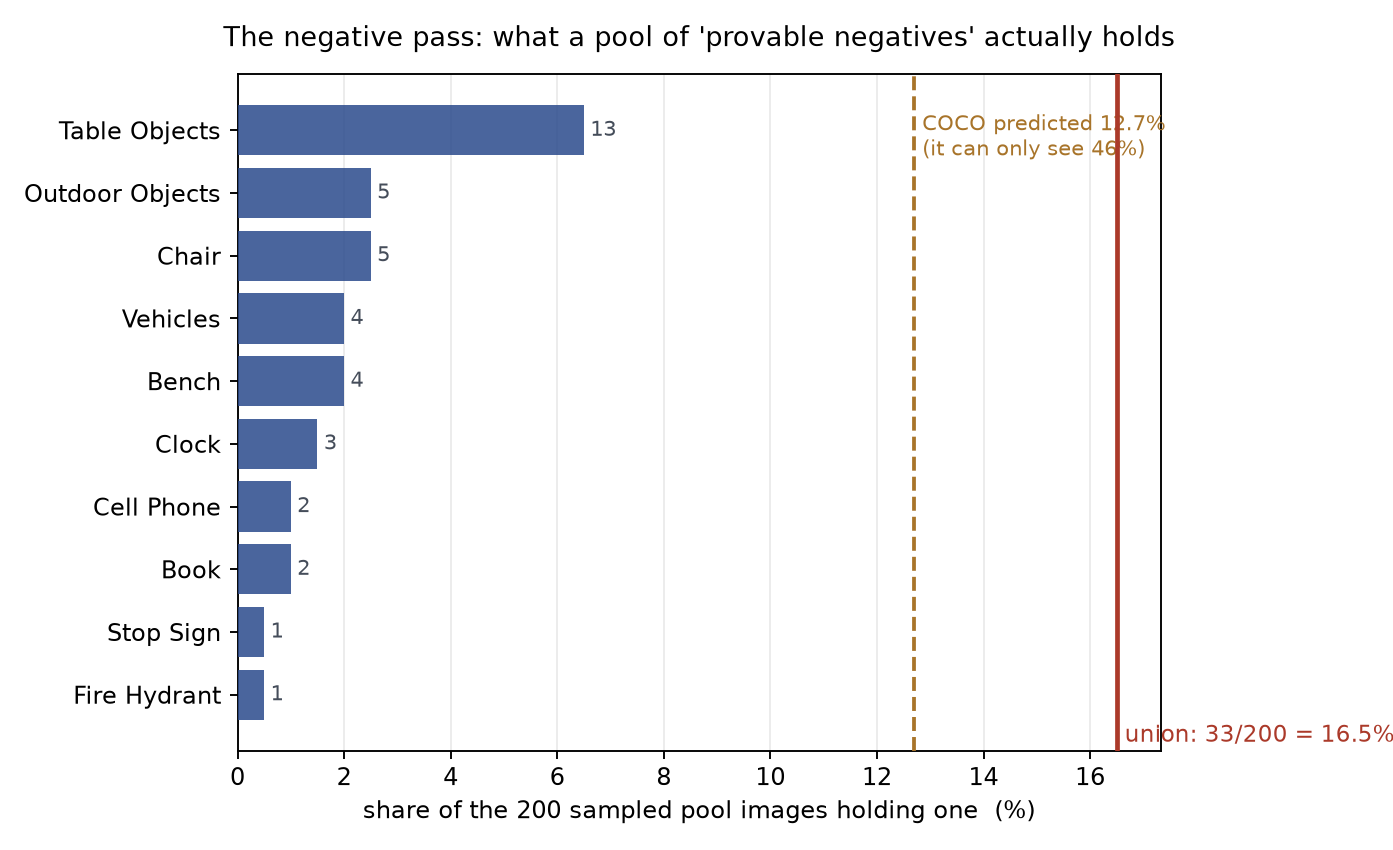
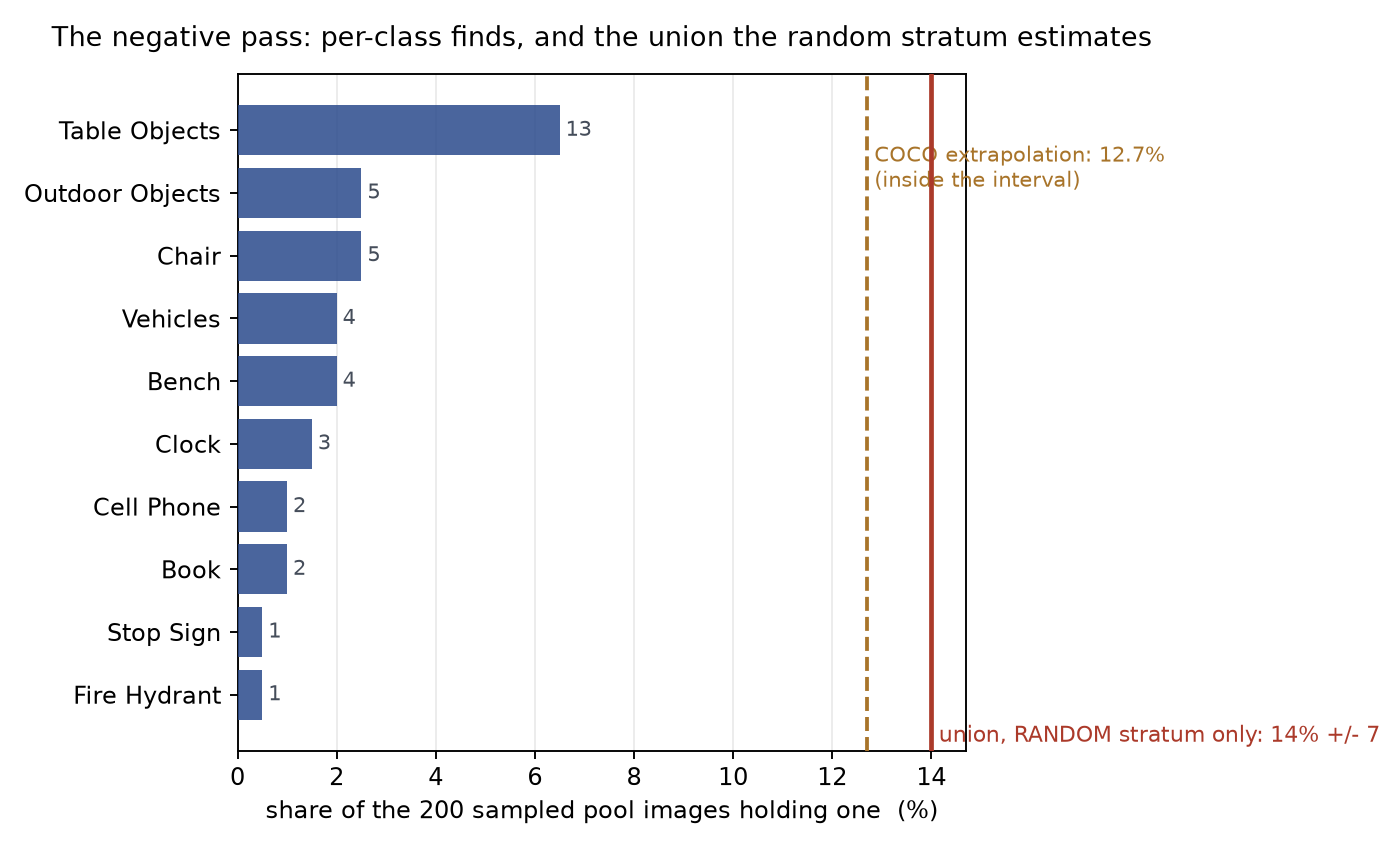
Correct the union rate: 14% +/- 7 from the random stratum, and it CONFIRMS #3635
The write-up compared 16.5% over all 200 sampled images against COCO's 12.7%
and claimed the reviewer had found 30% more contamination than COCO's half
could see. That comparison is invalid and the claim is withdrawn.

HALF THE SAMPLE IS THE BOUNDARY STRATUM, chosen by text rank to be suspicious,
while the 12.7% was computed uniformly over the whole frame. Mixing a biased
stratum into an estimate is the same error the class slates carry a warning
about in their own scoring output -- "the boundary row is chosen to surface
errors and says nothing about the pool" -- and the write-up made it anyway.

    random     14 / 100 = 14%     the estimate
    boundary   19 / 100 = 19%     biased by design
    all 200    33 / 200 = 16.5%   not an estimate of anything

Union contamination of the shared pool is 14% +/- 7 (95% CI, n=100). COCO's
extrapolation of 12.7% sits comfortably inside that interval.

SO THE RESULT IS A CONFIRMATION, NOT A CONTRADICTION, and that is worth more
than the wrong version was. `pool_contamination.py` (#3635, merged into dev
while this branch was open) measures per-class contamination on the COCO overlap
with COCO held back as the answer key, then extrapolates to the off-COCO half --
an extrapolation its own docstring flags as "assumes the two halves have the
same prevalence". Nobody had tested that assumption against a human on the half
it extrapolates TO. It survives.

The two halves of this sample came out at 22% (COCO-scored, n=92) and 12%
[…]

diff --git a/scripts/experiments/pile/negative_pass_strata.py b/scripts/experiments/pile/negative_pass_strata.py
@@ -1,0 +1,51 @@
+#!/usr/bin/env python3
+"""The union rate has to come from the RANDOM stratum alone.
+
+Half the 200 sampled images are the boundary stratum, chosen by text rank to be
+suspicious. Comparing a rate over all 200 against COCO's 12.7% -- which was
+computed uniformly over the whole frame -- is apples to oranges, and the report
+did exactly that.
+"""
+
+import csv
+import json
+from pathlib import Path
+
+BANK = Path("/expscratch/sgreenberg/classes-3588")
+man = {int(r["image_id"]): r["stratum"] for r in csv.DictReader((BANK / "slates/Table_Objects/manifest.csv").open())}
+POL = json.loads((BANK / "polarity.json").read_text())
+OLD = set(POL["old"]["detectors"])
+
+found, per = {}, {}
+for p in sorted((BANK / "negbank").glob("*.json")):
+    d = json.loads(p.read_text())
+    name, labels = d.get("name"), d["labelset"].get("labels", [])
+    if not name or len(labels) < 200 or name in per:
+        continue
+    per[name] = 1
+    old = name in OLD
+    for lb in labels:
+        iid = int(Path(lb["origin_name"]).stem)
+        present = (lb.get("label") != "good") if old else (lb.get("label") == "good")
+        if present:
+            found.setdefault(iid, []).append(name)
+
+for st in ("random", "boundary"):
+    ids = [i for i, s in man.items() if s == st]
+    k = sum(1 for i in ids if i in found)
+    print(
+        f"{st:<10} {k:3d} / {len(ids):3d} = {100 * k / len(ids):5.1f}%"
+        + ("   <- THE ESTIMATE" if st == "random" else "   (ranked, biased by design)")
+    )
+k = sum(1 for i in man if i in found)
+print(f"{'all 200':<10} {k:3d} / {len(man):3d} = {100 * k / len(man):5.1f}%   (not an estimate of anything)")
+
+n = sum(1 for i, s in man.items() if s == "random")
+k = sum(1 for i, s in man.items() if s == "random" and i in found)
+p_hat = k / n
+se = (p_hat * (1 - p_hat) / n) ** 0.5
+print(f"\nunion contamination of the shared pool: {100 * p_hat:.0f}% +/- {100 * 1.96 * se:.0f} (95% CI, n={n})")
+print(
+    "COCO's prediction over the same frame:   12.7%  -> "
+    + ("inside the interval" if abs(p_hat - 0.127) < 1.96 * se else "OUTSIDE the interval")
+)

diff --git a/docs/experiments/2026-09-03-vg-scale-classes/REPORT.md b/docs/experiments/2026-09-03-vg-scale-classes/REPORT.md
@@ -13,9 +13,9 @@ they would be reviewed under, and the tooling behind them.
 **Update, 2026-09-06.** The review ran. One reviewer produced **5,904
 judgements** over four days — 3,900 across the thirteen candidate slates and
 2,000 in a negative pass covering all twenty-five classes. All thirteen
-candidates clear the bar; the results and their cost are in
-[The review ran](#the-review-ran-5904-judgements) below, and six issues came out
-of it.
+candidates clear the bar. The negative pass puts union contamination of the
+shared pool at **14% ± 7**, which *confirms* the extrapolation #3635 rests on
+rather than overturning it. Six issues came out of the review.
 
 ## Three results, in order of how much they change the plan
 
@@ -256,27 +256,47 @@ from `Truck` costs the 63 `trailer`, 35 `cart`, 24 `tractor`, 2 `forklift` and 2
 `crane` boxes COCO does call trucks — about 100 boxes, the same order as the
 vase narrowing.
 
-### The negative pass: the pool is 17% contaminated
+### The negative pass: the pool is 14% ± 7 contaminated, and the extrapolation holds
 
 ![the negative pass](figures/negative-pass.png)
 
 The thirteen slates each measured one class against its own negatives. The
-negative pass asked the question nobody had asked about the **pool**: an image
-sits in it because no VG name on it matches a class, and this study's whole
-finding is that a missing name is not an absent object.
+negative pass asked about the **pool** itself: an image sits in it because no VG
+name on it matches a class, and this study's whole finding is that a missing
+name is not an absent object.
 
-200 images from the corrected pool, all twenty-five classes, five to twelve
-scene-grouped passes:
+200 images from the corrected pool, all twenty-five classes, five scene-grouped
+passes over one sample.
 
-**33 of 200 hold at least one — 17%.** COCO predicted 13% on the 46% of the
-sample it can score. **The reviewer found 30% more contamination than COCO's
-half could see**, which is precisely the value of labelling the other half: a
-stop sign and three clocks turned up in the 54% nothing else can reach.
+**The estimate has to come from the random stratum alone**, and getting this
+wrong is easy: half the sample is the boundary stratum, chosen by text rank to
+be suspicious, so a rate over all 200 estimates nothing.
+
+| stratum | holds one of the 25 | |
+|---|---|---|
+| **random** | **14 / 100 = 14%** | **the estimate** |
+| boundary | 19 / 100 = 19% | ranked, biased by design |
+| all 200 | 33 / 200 = 16.5% | not an estimate of anything |
+
+> **Union contamination of the shared negative pool: 14% ± 7 (95% CI, n=100).**
+
+**This confirms #3635 rather than overturning it.** `pool_contamination.py`
+measures per-class contamination on the COCO overlap with COCO held back as the
+answer key, then extrapolates to the off-COCO half — an extrapolation its own
+docstring flags as *"assumes the two halves have the same prevalence"*. Applied
+to this frame it predicts **12.7%**, which sits comfortably inside the
+interval. **The assumption had never been tested against a human on the half it
+extrapolates to; it survives.**
+
+The two halves of the sample came out at 22% (COCO-scored, n=92) and 12%
+(off-COCO, n=108). That looks like a large gap and is **1.8σ** — not a
+difference this sample can establish, and pointing the opposite way from the
+worry, so it argues against the off-COCO half being dirtier rather than for it.
 
 Per class the rate is 0.5–2.5%, and that is the figure that bears on a
-single-class evaluation — 20 to 100 wrong negatives out of 3,900. The 17% is the
+single-class evaluation — 20 to 100 wrong negatives out of 3,900. The 14% is the
 rate for "holds any of the twenty-five", and it prices a different ambition: a
-pool provably clean of everything is 83% the size of the current one.
+pool provably clean of everything is about 86% the size of the current one.
 
 **Two perfect passes.** `Vehicles` and `Outdoor Objects` each scored **100%**
 against COCO on 92 scored rows — zero misses, zero false alarms. Both were
